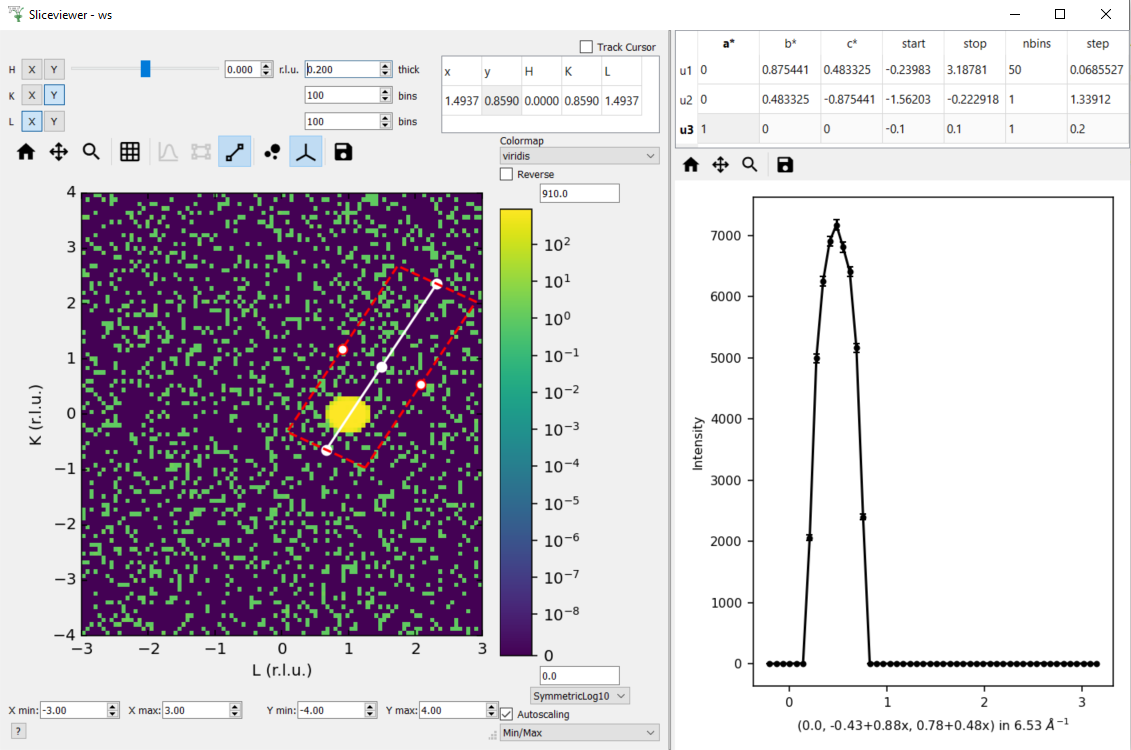
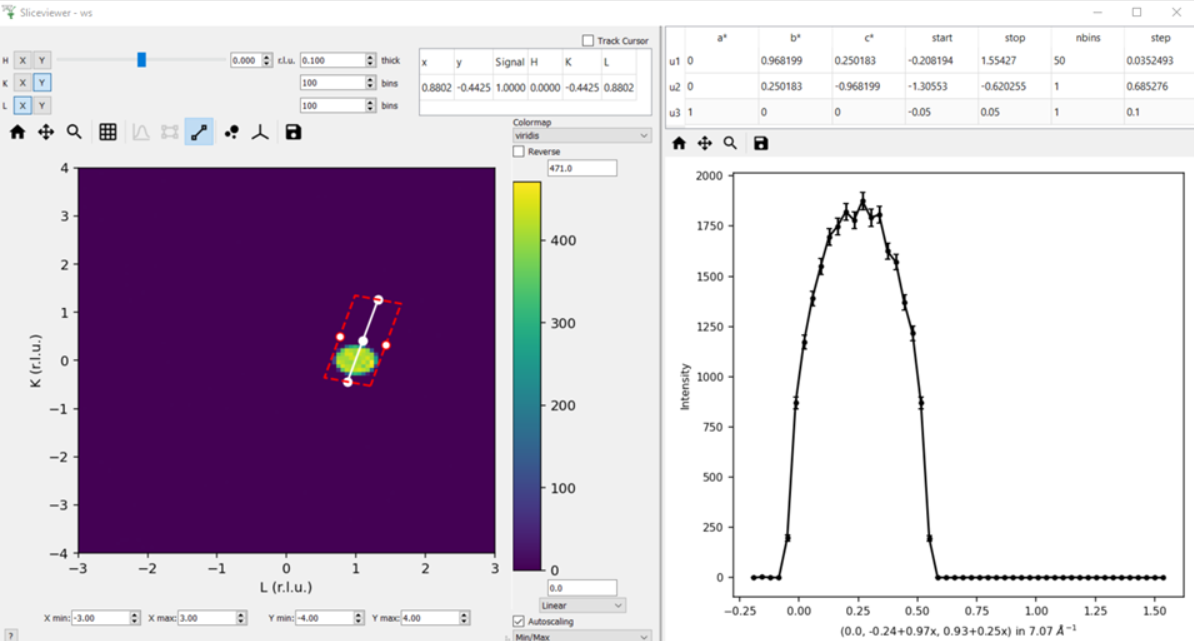
screenshot updated as requested

Changed region(s): [[0.0, 0.0, 1.0, 1.0], [0.0928, 0.0624, 0.1547, 0.1248], [0.0, 0.0, 0.0928, 0.0312]]

diff --git a/dev-docs/source/Testing/SliceViewer/SliceViewer.rst b/dev-docs/source/Testing/SliceViewer/SliceViewer.rst
@@ -345,7 +345,7 @@ It should only be enabled for the `ws_3D` and `ws_3D_QLab` workspaces (see comme
 
 27. Produce a non-axis aligned cut as shown below where the peak is not in the center of the x-range. Take the x-value at the peak maximum and plug it into the axis label - it should produce the HKL of the peak (0,0,1).
 
-    - In the example below, the x axis label is ``(0.0, -0.43+0.88x, 0.78+0.48x) in 6.53 Ang^-1``. By replacing x-value with the peak maximum of ~ 0.5, we get ``(0.0, -0.43+0.88*0.5, 0.78+0.48*0.5)`` = ``(0.0,0.01,1.02)`` which is very close actual peak HKL = ``(0,0,1)``
+    - In the example below, the x axis label is ``(0.0, -0.24 + 0.97x, 0.93 + 0.25x) in 7.07 Ang^-1``. So if we plug in the value of x at the peak centre we get ``(0.0, -0.24 + 0.97*0.25, 0.93 + 0.25*0.25)`` = ``(0.0, 0.0025, 0.9925)`` which is very close actual peak HKL = ``(0,0,1)``
 
 .. figure:: ../../images/SliceViewer/CutViewer_nonAxisAlignedCut.png
    :class: screenshot
